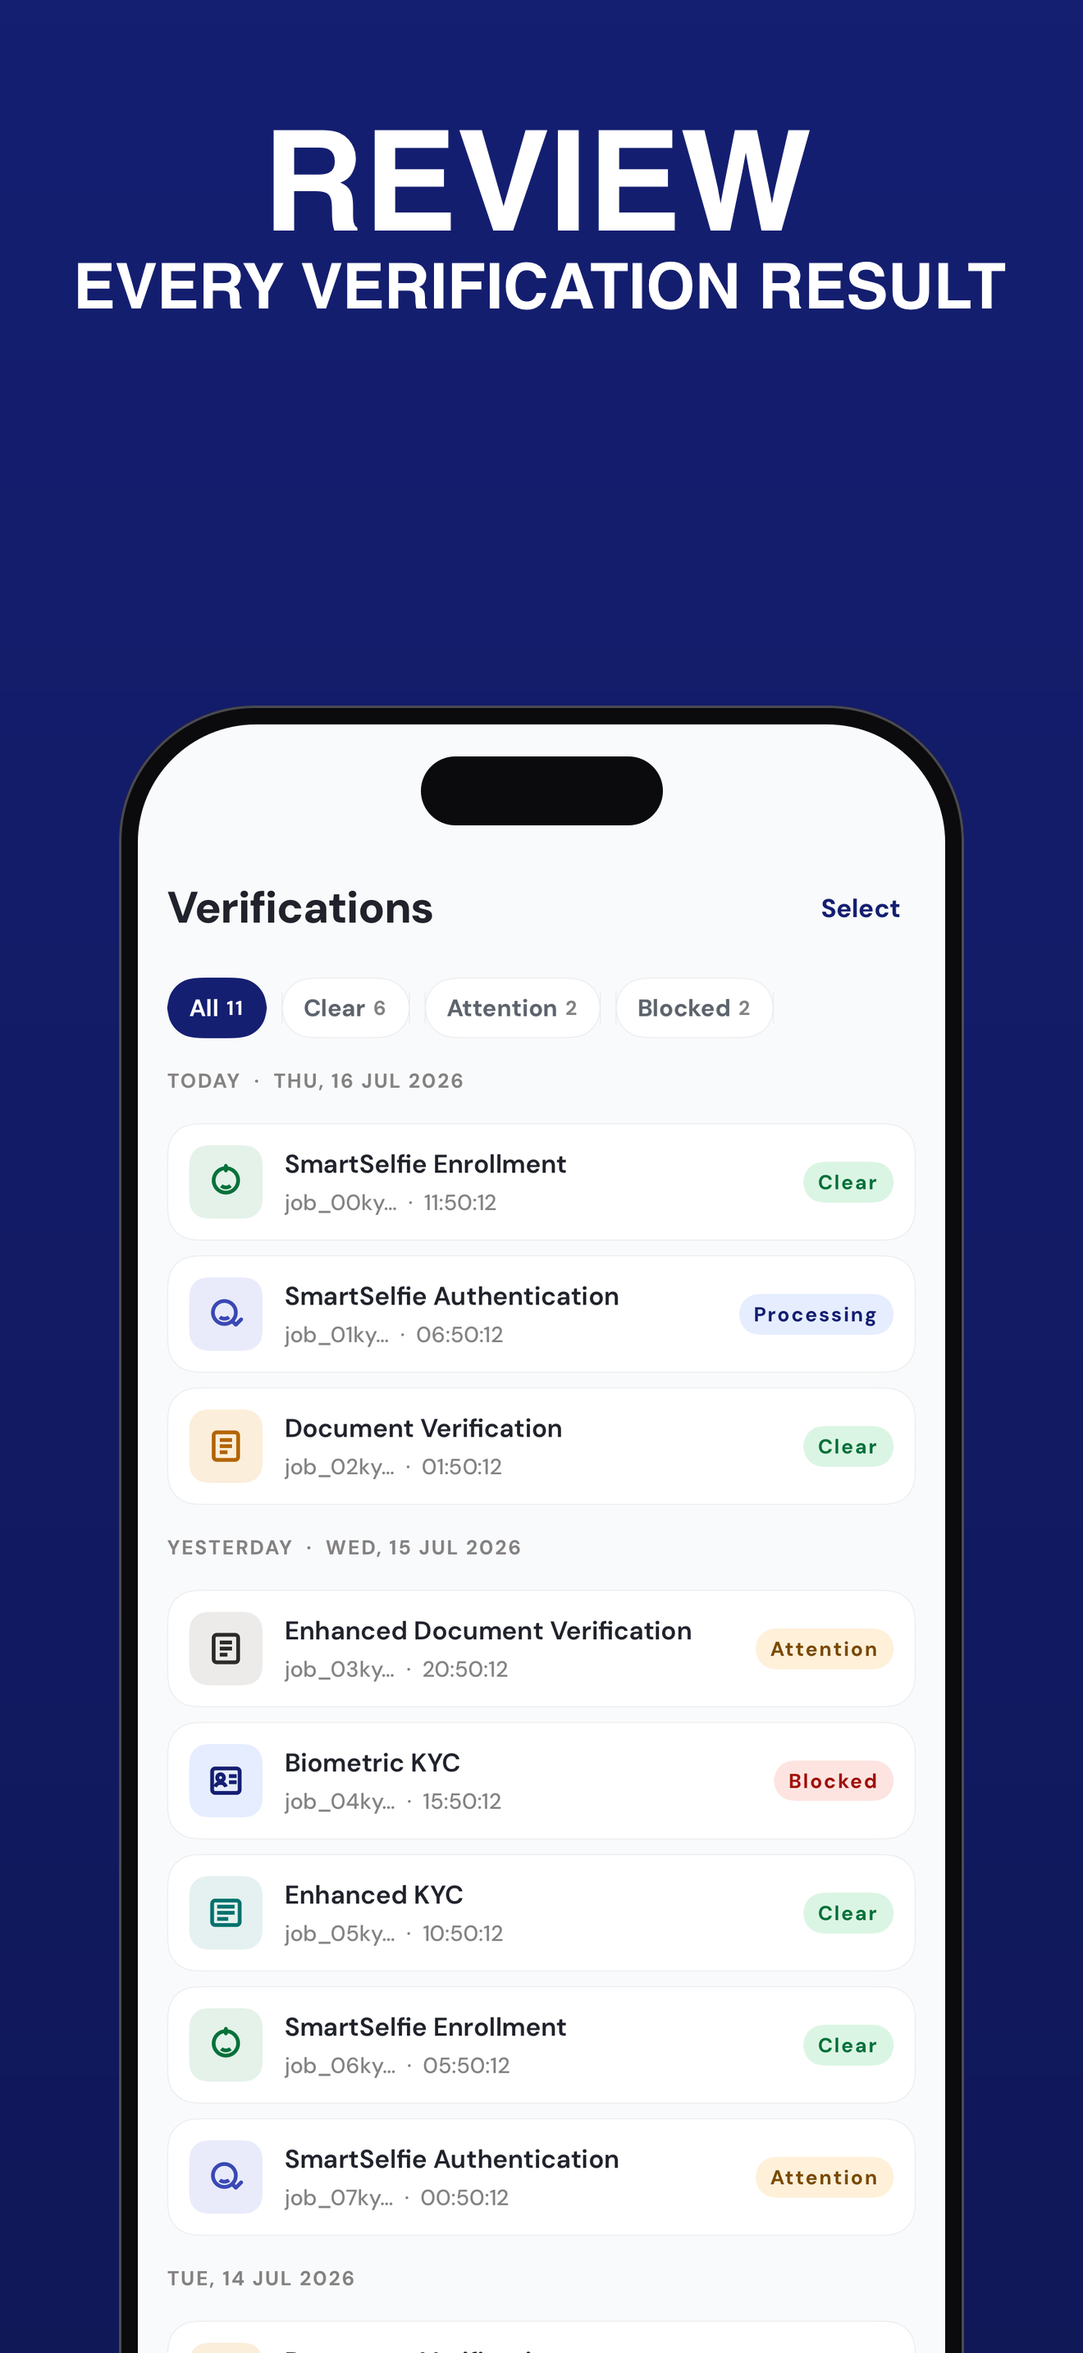
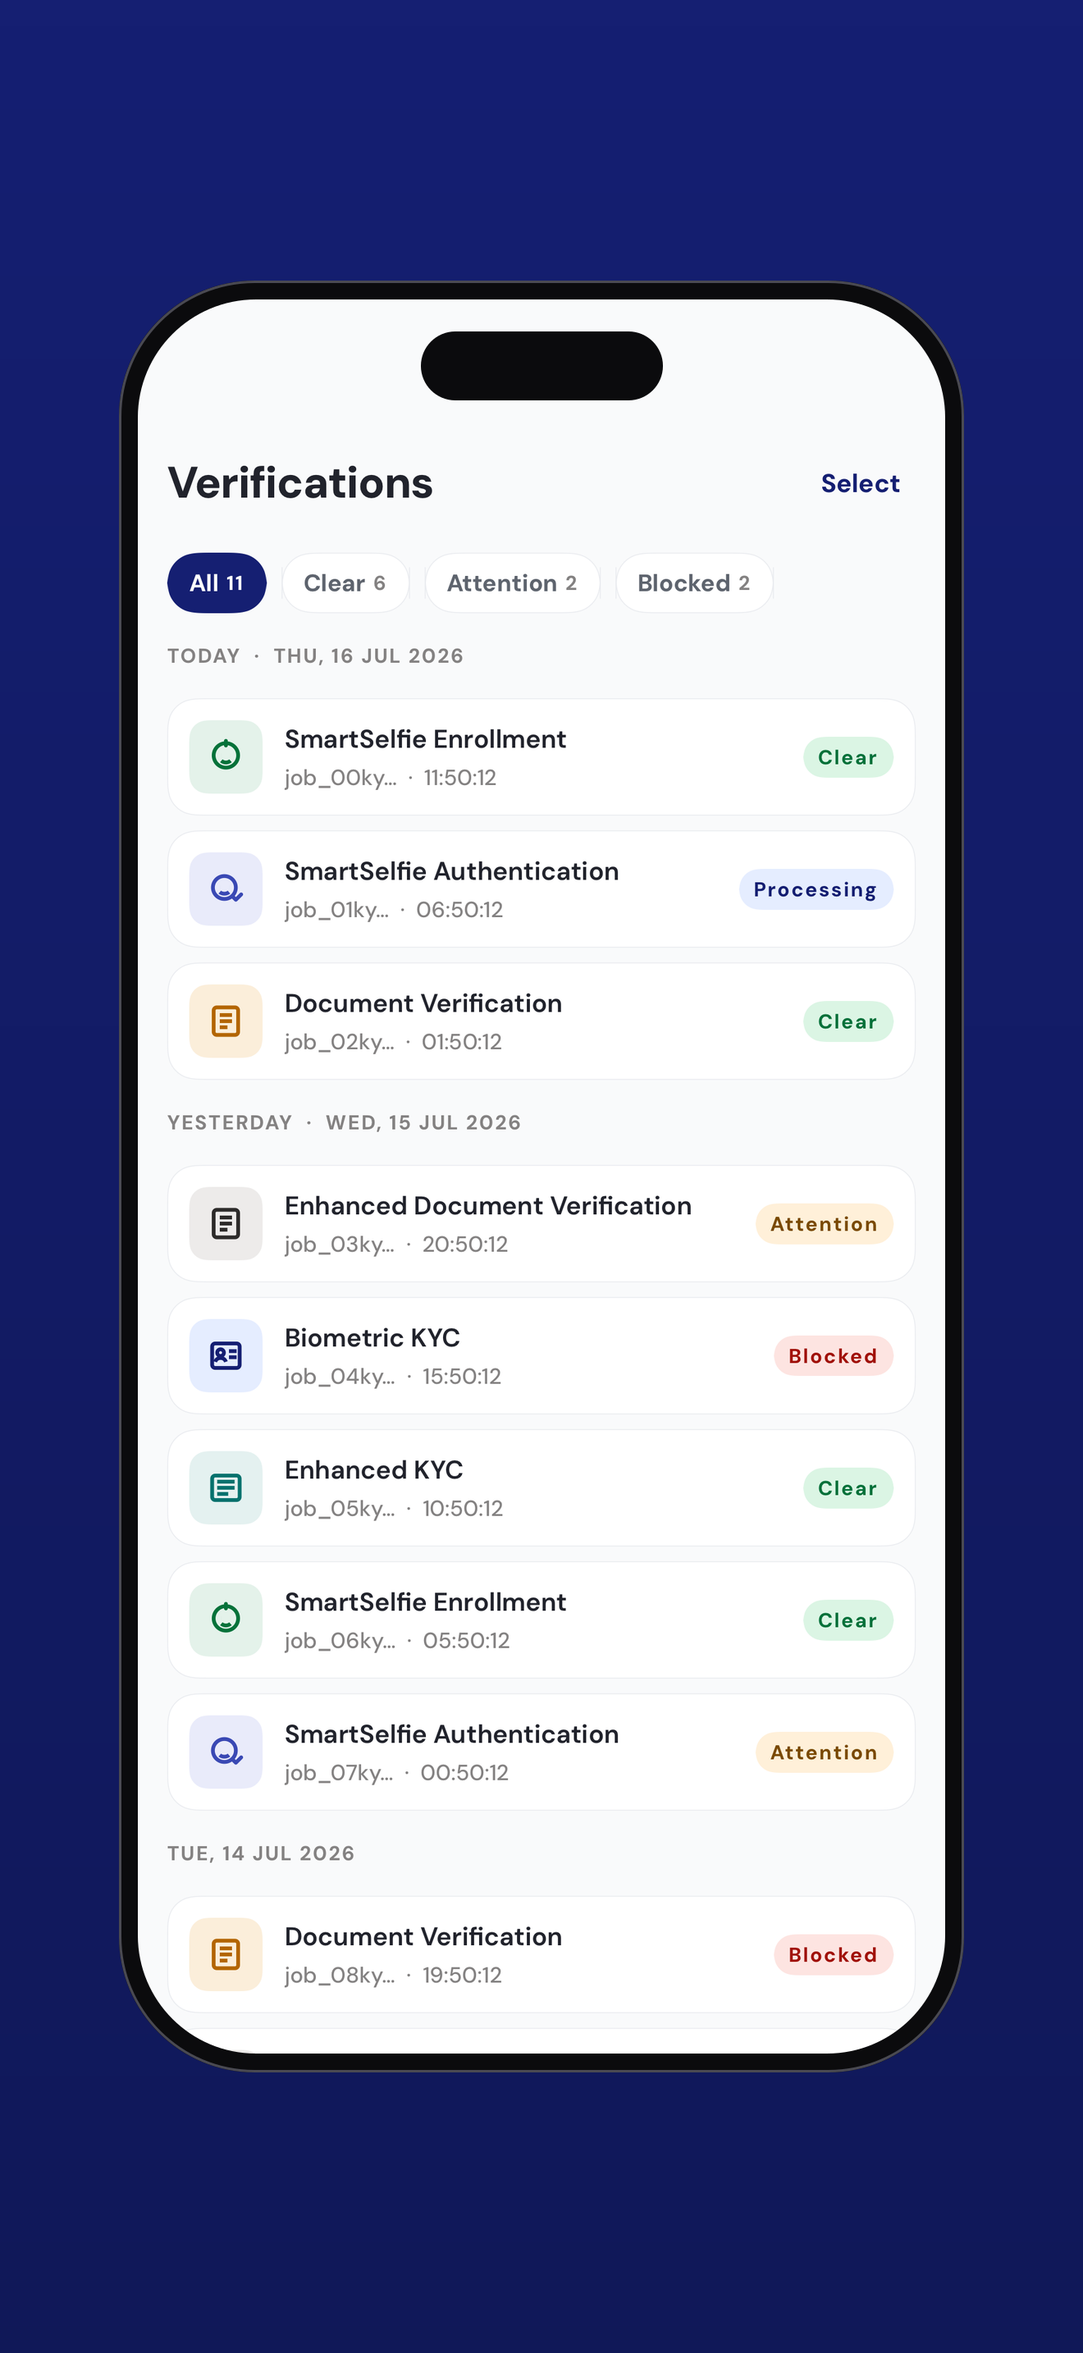
🎨 store: drop the panel headlines and rename the Android app to Smile ID (#87)
* feat: drop the store-art headlines and rename the Android app to Smile ID

* test: hold the launcher label and the shared description to the spec

* fix: fit the store panel device on both axes

* docs: trim Play's description to the product names

diff --git a/android/app/src/test/kotlin/com/usesmileid/sampleapps/android/UseSmileIDSampleRoutesSpecTest.kt b/android/app/src/test/kotlin/com/usesmileid/sampleapps/android/UseSmileIDSampleRoutesSpecTest.kt
@@ -147,6 +147,19 @@ class UseSmileIDSampleRoutesSpecTest {
         assertEquals(UseSmileIDSampleDeepLinks.SCHEME, entry.required("urlScheme"))
     }
 
+    /** The launcher label is a second copy of the spec's display name, and both stores list under it. */
+    @Test
+    fun the_launcher_label_is_the_android_entry_in_app_identity() {
+        val entry = requireNotNull(ANDROID_APP_ENTRY.find(spec("app-identity.json"))) {
+            "no flat android app entry in spec/app-identity.json"
+        }.value
+        val strings = File(specDir(), "../android/app/src/main/res/values/strings.xml").readText()
+        val label = requireNotNull(Regex("<string name=\"app_name\">([^<]+)</string>").find(strings)) {
+            "no app_name in strings.xml"
+        }.groupValues[1]
+        assertEquals(label, entry.required("displayName"))
+    }
+
     /** The intent filter is a third copy of the scheme; drift there kills every deep link at the OS. */
     @Test
     fun the_manifest_intent_filter_claims_the_same_scheme() {

diff --git a/android/app/src/main/kotlin/com/usesmileid/sampleapps/android/navigation/SettingsDestinations.kt b/android/app/src/main/kotlin/com/usesmileid/sampleapps/android/navigation/SettingsDestinations.kt
@@ -193,7 +193,7 @@ private fun rememberWarmCustomTabsSession(): CustomTabsSession? {
     return session
 }
 
-// Brand copy rather than the launcher label — see spec/app-identity.json.
-private const val APP_DISPLAY_NAME = "Smile ID Sample App"
+// The product name, as the launcher label and both store listings carry it — see spec/app-identity.json.
+private const val APP_DISPLAY_NAME = "Smile ID"
 
 private const val LICENSES_ASSET = "licenses.json"

diff --git a/android/sample-ui/src/test/kotlin/com/usesmileid/sampleapps/ui/golden/ScreenGoldenTest.kt b/android/sample-ui/src/test/kotlin/com/usesmileid/sampleapps/ui/golden/ScreenGoldenTest.kt
@@ -218,7 +218,7 @@ private fun Settings(
         settings = settings,
         organisation = ProfileFixtures.WithCreated.all[profileIndex].organisation,
         initials = ProfileFixtures.WithCreated.all[profileIndex].initials,
-        versionLabel = "Smile ID Sample App · 1.0.0",
+        versionLabel = "Smile ID · 1.0.0",
         consentBoundByToken = consentBoundByToken,
         avatarColor = avatarColorForProfile(profileIndex),
     ),

diff --git a/android/sample-ui/src/test/kotlin/com/usesmileid/sampleapps/ui/storeart/StoreArtTest.kt b/android/sample-ui/src/test/kotlin/com/usesmileid/sampleapps/ui/storeart/StoreArtTest.kt
@@ -93,7 +93,7 @@ class StoreArtTest {
                 settings = UseSmileIDSampleSettings(),
                 organisation = "UpTech Finance",
                 initials = "KA",
-                versionLabel = "Smile ID Sample App · 1.0.0",
+                versionLabel = "Smile ID · 1.0.0",
                 consentBoundByToken = false,
             ),
             onSettingChange = { _, _ -> },

diff --git a/android/app/src/test/kotlin/com/usesmileid/sampleapps/android/UseSmileIDSamplePlayListingTest.kt b/android/app/src/test/kotlin/com/usesmileid/sampleapps/android/UseSmileIDSamplePlayListingTest.kt
@@ -27,7 +27,7 @@ class UseSmileIDSamplePlayListingTest {
 
     @Test
     fun `the store title is the identity the spec settled`() {
-        assertEquals("UseSmileID Sample", listing("title.txt"))
+        assertEquals("Smile ID", listing("title.txt"))
     }
 
     @Test

diff --git a/scripts/check_store_listing.py b/scripts/check_store_listing.py
@@ -39,6 +39,16 @@ PANEL_SIZE = (1320, 2868)
 
 # capture comes from a device and is the one panel that may legitimately be absent; the five
 # rendered ones may not. render-store-art.sh composes exactly this list, in this order.
+# Named in both listings, so neither store can quietly drop or rename one.
+PRODUCTS = [
+    "SmartSelfie\u2122 Enrollment",
+    "SmartSelfie\u2122 Authentication",
+    "Document Verification",
+    "Enhanced Document Verification",
+    "Biometric KYC",
+    "Enhanced KYC",
+]
+
 REQUIRED_PANELS = ["products", "token_session", "verifications", "verification_details", "settings"]
 OPTIONAL_PANELS = ["capture"]
 
@@ -83,6 +93,18 @@ def check_copy(problems: list[str]) -> None:
         problems.append("description.txt must name the first product as the app's own list does")
     if "SmartSelfie™ Registration" in description:
         problems.append("description.txt uses docs-v3's name; the listing takes the app's, by owner ruling")
+    # Play's copy is the short list and this one is not, until the next version takes it (plan section 5).
+    # What must not drift is the product set: one store naming a product the other omits is a listing defect.
+    play_description = ROOT / "android" / "play" / "full-description.txt"
+    if not play_description.exists():
+        problems.append("android/play/full-description.txt is missing; the two listings name the same products")
+    else:
+        play = play_description.read_text(encoding="utf-8")
+        for product in PRODUCTS:
+            if product in description and product not in play:
+                problems.append(f"{product} is in description.txt but not android/play/full-description.txt")
+            if product in play and product not in description:
+                problems.append(f"{product} is in android/play/full-description.txt but not description.txt")
 
 
 def check_images(problems: list[str], kind: str, directory: Path, suffix: str, *, alpha_ok: bool) -> list[str]:

diff --git a/docs/plan/app-store-release-ios.md b/docs/plan/app-store-release-ios.md
@@ -18,7 +18,8 @@ noted:
 - The **app is named "Smile ID"** — launcher label and store name — by owner ruling 2026-09-13, so the
   listing reads as the product a partner searches for. Android, Flutter and Expo rename after this
   release; the shared description still opens with the old name until Android's copy moves, and
-  that is the one visible seam accepted to keep the release moving.
+  that is the one visible seam accepted to keep the release moving. Android moved on 2026-09-14, so
+  the seam is closed.
 - **Phone-only** — §6.2 is the code that decides it, and it is the same code shape Android's §6.2 read.
 - The **app icon has landed** (#81) from `svgs/ios.svg`, gated by `scripts/generate_app_icon.py --check`
   in `ios/verify.sh`. §4 says why nothing here touches it.
@@ -169,9 +170,12 @@ over all five.
 `showcase` strip for review. Three of Android's findings are taken as settled rather than re-learned:
 
 - **One layout variant for the whole set.** Every panel is `text-top`, so the device sits at the same
-  height throughout. Variety comes from the headlines and the screens.
+  height throughout. Variety comes from the headlines and the screens. *Since 2026-09-14 there is no
+  headline: the panels are the screen alone, whole device centred, on both platforms — see the Android
+  plan's §2.6 for the ruling and `scripts/compose-store-panel.mjs` for how.*
 - **No headline states a count**, and the nouns come from `docs-v3` — *verification result*, and its
-  *status* and *message*, which are also the words on the app's own status pills.
+  *status* and *message*, which are also the words on the app's own status pills. *The rule now
+  governs the listing copy, the panels having no words.*
 - **The output directory holds store art and nothing else.** Android's review strip sitting among the
   panels failed its release lane, which validated it as a phone screenshot. Here the strip is written
   to `ios/store/showcase.png`, a level above `ios/store/screenshots/`.
@@ -286,14 +290,18 @@ first line a reviewer reads should not contradict the title above it. The produc
 themselves are unchanged, so a `docs-v3` change still has one blast radius. **The divergence closes
 when Android renames:** the Play title and the first sentence of `full-description.txt` move together,
 and the two files are identical again — recorded in the Android plan's follow-ups so the rename
-cannot land without it.
+cannot land without it. **Closed 2026-09-14** for the sentence: Android renamed, and both listings now
+open identically. The bodies diverged the same day by a second ruling — Play dropped the per-product
+paragraphs (its §5) while this version sat in the review queue — so `scripts/check_store_listing.py`
+now holds the invariant that outlives the gap: both listings name the same six products. This
+description takes Play's shorter text on the next version, see §7.2.
 
 **What the App Store forces to differ is field shape, not voice.** Its limits are not Play's, and one
 of them does not fit:
 
 | Field | App Store limit | Play counterpart | Action |
 |---|---|---|---|
-| Name | 30 | title, 30 | "Smile ID" (8) — renamed 2026-09-13; Play's title follows later |
+| Name | 30 | title, 30 | "Smile ID" (8) — renamed 2026-09-13; Play's title followed 2026-09-14 |
 | **Subtitle** | **30** | short description, 80 | **new copy needed**: Play's is 67 characters |
 | Description | 4000 | full description, 4000 | unchanged (3030) |
 | Promotional text | 170 | — | new, and editable without a build |
@@ -538,8 +546,14 @@ release lane's assertions all pass `-o -`, with a comment saying why.
 
 ### 7.2 What is owed, and what it does not block
 
+- **This description takes Play's shorter text on the next version.** Play dropped the per-product
+  paragraphs on 2026-09-14 and kept the six names (its §5). This one could not follow: description is
+  per-version metadata and 20260913.1211.103 was already in the review queue. Copy
+  `android/play/full-description.txt` over `ios/store/description.txt` when the next version is created,
+  which is after the current submission reaches a verdict. The listing check holds the product set in
+  the meantime, so the gap cannot widen unnoticed.
 - **The camera panel** needs a device, exactly as Android's REL-A9 does. The composer already has its
-  slot and its headline; five panels are rendered and Apple requires one, so it blocks nothing.
+  slot; five panels are rendered and Apple requires one, so it blocks nothing.
 - **The `verification_details` panel is the weak one**, and it is weak for precisely the reason Android
   recorded: hiding the debug result card leaves the screen sparse. That hiding is not optional — a
   plain release install has `showProbes` false, and store art showing a state a reviewer's own build
@@ -554,8 +568,8 @@ release lane's assertions all pass `-o -`, with a comment saying why.
   affected — the form is what Apple reads — but the next TestFlight build closes the gap.
 - **Play's Data safety form owes Email address and Phone number** — the same finding, on the other
   store; `docs/play-data-safety.md` marks the rows owed and the Android plan carries the follow-up.
-- **The description's first sentence diverges from Play's** (§5) until Android renames to "Smile ID";
-  the Android rename changes the Play title and that sentence in the same PR.
+- ~~The description's first sentence diverges from Play's (§5) until Android renames to "Smile ID".~~
+  **Closed 2026-09-14** by the Android rename, which moved the Play title and that sentence together.
 - ~~The two stores show different demo data for the same app.~~ **Ruled 2026-09-13: iOS takes
   Android's** — `UpTech Finance` / `KA` / session `9f3a2c71` at `7:59:12`, a countdown both apps'
   formatters actually produce. Both store-art tests now carry the same literals; lifting them into
@@ -619,9 +633,10 @@ a shape that will recur in the Flutter and Expo ports.
 ## 8. Parity — what Flutter and Expo inherit
 
 **Unchanged from Android, and now proved twice:** capture from committed deterministic renders; one
-layout variant for the whole set; headlines from `docs-v3` nouns with no count; fixture-only data in
-every published frame; store art committed and staleness-gated; the art directory holding nothing
-else; release notes written by a person; one monotonic build number across every lane, computed once.
+layout variant for the whole set; no headline on a panel since 2026-09-14 (the `docs-v3` nouns rule
+moved to the listing copy); fixture-only data in every published frame; store art committed and
+staleness-gated; the art directory holding nothing else; release notes written by a person; one
+monotonic build number across every lane, computed once.
 
 **What the iOS release learned that Flutter and Expo should not re-learn:**
 

diff --git a/docs/plan/play-release-android.md b/docs/plan/play-release-android.md
@@ -18,7 +18,8 @@ this plan adds no screens.
 - `targetSdk = 37` is **accepted by Play today**, so REL-A14 is a periodic re-check, not a blocker.
 - The **v11 upload key is reused** (§3).
 - The **store title takes the spec name**, "UseSmileID Sample", on the understanding that a store title
-  is one of the cheapest things on a listing to change later.
+  is one of the cheapest things on a listing to change later — and it changed: the title became
+  "Smile ID" on 2026-09-14 (§7.4).
 - **Data safety mirrors v11 wherever the two apps behave the same** — and §6.1 shows they do, on every
   question the form asks.
 - **Phone-only. No tablet art** — §6.2 is the code that decides it.
@@ -192,6 +193,11 @@ pills. Two earlier drafts read as developer shorthand ("every field of a result"
 ("every run and its status"); the docs' vocabulary fixed both. The details panel then took its
 descriptor from the screen's own title, "Verification details", rather than naming two of the five
 fields it shows.
+
+**The headlines came off on 2026-09-14** (owner ruling): every panel is now the screen alone — storeshots'
+background, gradient and frame with the whole device centred, composed by `scripts/compose-store-panel.mjs`
+because storeshots refuses an empty headline, then validated by storeshots as before. The listing copy
+carries the words, so the two rules above now govern that copy rather than the art.
 
 ### 2.7 What building the pipeline changed
 
@@ -401,6 +407,20 @@ agree with each other — a partner reading the listing next to the app should n
 product. The trademark still renders as `docs-v3` writes it. Everything else in the copy follows
 `docs-v3` unchanged.
 
+**Owner ruling 2026-09-14: the per-product paragraphs come out of Play's description.** They restated
+`docs-v3` in full, so every product change meant re-editing the listing. The six product names stay,
+because **Play indexes the full description for search** and those names are what a partner searches
+for; what goes is the mechanism paragraph under each, which `docs.smileidentity.com` already owns and
+keeps current. The description drops from 3022 characters to 1016.
+
+**Play moves first and alone.** The App Store description is per-version metadata and version
+20260913.1211.103 was sitting in Apple's review queue when this was ruled, so editing it would have
+meant touching a submitted version. iOS takes the same text on its next version, which is recorded in
+that plan's §7.2. Until then the two descriptions differ by those paragraphs, deliberately, and
+`scripts/check_store_listing.py` enforces the invariant that survives the gap: both listings name the
+same six products. Apple is unaffected by the search argument either way, because the App Store does
+not index the description at all.
+
 **Release notes are v11's other defect, and this is where it stops.** v11 generates "What's new" with
 `git log --pretty=format:'- [%ad] %s' --date=short -n 5`, which is why the live listing shows
 `- [2026-08-07] 🚢 release: prep 11.2.0 — release notes and smileid-security bump (#961)` to partners —
@@ -599,11 +619,13 @@ None of these blocks anything, and none of them belongs to Android's critical pa
   touched for it now. The rename travels with the sample-ui port to the four SDKs — that is when those
   apps get built and when the collision first becomes real. `spec/app-identity.json` carries the target
   ids so the work is a lookup rather than a re-decision.
-- **The rename to "Smile ID" is owed, and it carries a sentence with it.** The iOS app shipped under the
-  store name "Smile ID" on 2026-09-13 (its plan's §5), so its description now opens *"Smile ID is the
-  reference app…"* while `full-description.txt` here still opens *"UseSmileID Sample is…"*. When the
-  Play title moves to "Smile ID", change that first sentence in the same PR — the two descriptions are
-  then identical again, and the shared-paragraph rule in §8 holds without an exception.
+- ~~**The rename to "Smile ID" is owed, and it carries a sentence with it.**~~ **Done 2026-09-14.** The iOS
+  app shipped under the store name "Smile ID" on 2026-09-13 (its plan's §5), so its description opened
+  *"Smile ID is the reference app…"* while `full-description.txt` here still opened *"UseSmileID Sample
+  is…"*. Launcher label, Play title, Settings footer and that first sentence moved together, so both
+  listings now open on the same sentence. The bodies then diverged again by ruling, see §5.
+  The Console still takes title and description by hand (REL-A5: no fastlane), so paste both at the
+  next internal publish; the upload action carries only `whatsnew/`.
 - **Data safety owes two rows.** The user-details form sends email and phone with a submission, and
   neither is declared. Found 2026-09-14 while the iOS App Privacy form was filled from the same
   derivation; `docs/play-data-safety.md` marks them owed. Add both at the next Play release.
@@ -631,7 +653,8 @@ time here:
   size and height in every panel, which reads as inconsistency.
 - **Headlines take their nouns from `docs-v3` and never state a count.** "Six products" is wrong the day
   a product is added. `docs-v3` calls the record a *verification result* and describes it by *status*
-  and *message*; those words are also what the app's status pills say.
+  and *message*; those words are also what the app's status pills say. *Since 2026-09-14 the panels
+  carry no headline at all (§2.6), so this rule now governs the listing copy.*
 - **Whatever directory the store art lands in must contain only store art.** The review strip sitting
   among the panels failed the release lane, which validated it as a phone screenshot.
 - **Check the rendered output, not the raw frames.** Both the cutout collision and the variant problem
